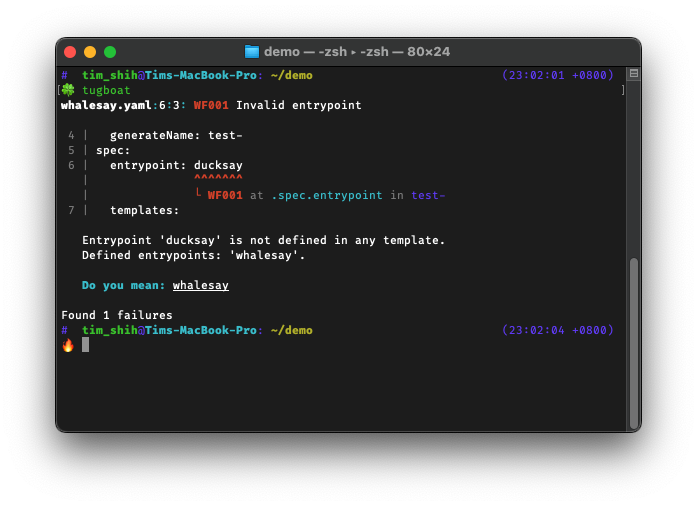
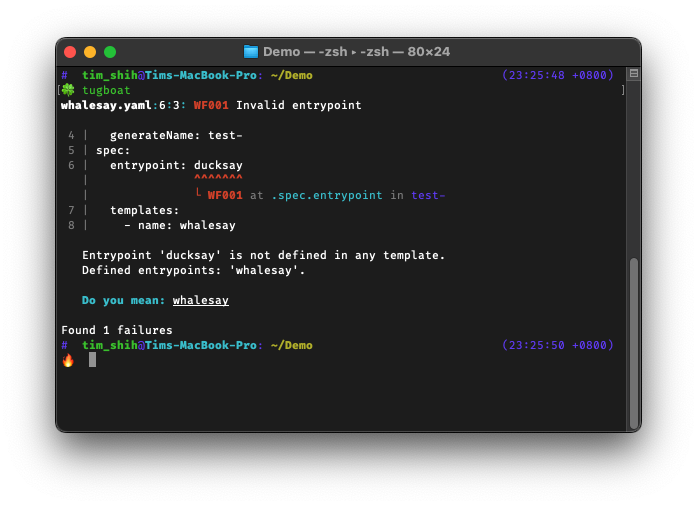
fix: console output (#8)

diff --git a/tugboat/console/outputs/console.py b/tugboat/console/outputs/console.py
@@ -11,7 +11,7 @@ from tugboat.console.utils import format_loc
 if typing.TYPE_CHECKING:
     from collections.abc import Callable, Iterator
     from pathlib import Path
-    from typing import IO
+    from typing import IO, Any
 
     from tugboat.analyze import AugmentedDiagnosis
 
@@ -73,9 +73,12 @@ def report_diagnosis(echo: Callable, file: Path, diagnosis: AugmentedDiagnosis):
             # default to the column number, but if the input is present, use that instead
             indent_before_caret = " " * max(diagnosis["column"] - 1, 0)
 
-            if diagnosis["input"] is not None and str(diagnosis["input"]) in line:
-                col_start = line.index(str(diagnosis["input"]))
-                col_end = col_start + len(str(diagnosis["input"]))
+            if range_ := _calc_highlight_range(
+                line=line,
+                offset=diagnosis["column"] - 1,
+                input_=diagnosis["input"],
+            ):
+                col_start, col_end = range_
                 indent_before_caret = " " * col_start
 
                 # print the underline
@@ -116,11 +119,31 @@ def report_diagnosis(echo: Callable, file: Path, diagnosis: AugmentedDiagnosis):
 def get_content_near(file: Path, target_line: int) -> Iterator[tuple[int, str]]:
     target_line -= 1  # 1-based to 0-based
     content = read_file(file).splitlines()
-    start = max(0, target_line - LINES_BEHIND)
-    end = min(len(content), target_line + LINES_AHEAD)
-    yield from enumerate(content[start:end], start + 1)
+    start = max(0, target_line - LINES_AHEAD)
+    end = min(len(content), target_line + LINES_BEHIND)
+    yield from enumerate(content[start : end + 1], start + 1)
 
 
 @functools.lru_cache(1)
 def read_file(path: Path) -> str:
     return path.read_text()
+
+
+def _calc_highlight_range(line: str, offset: int, input_: Any):
+    """
+    Calculate the range to highlight in the line.
+    """
+    if input_ is None:
+        return  # early escape if no value is provided
+
+    value = str(input_)
+    if not value.strip():
+        return  # prevent highlighting empty strings
+
+    try:
+        col_start = line.index(value, offset)
+    except ValueError:
+        return
+
+    col_end = col_start + len(value)
+    return col_start, col_end

diff --git a/tests/console/test_output_console.py b/tests/console/test_output_console.py
@@ -3,7 +3,7 @@ from pathlib import Path
 
 import pytest
 
-from tugboat.console.outputs.console import report
+from tugboat.console.outputs.console import _calc_highlight_range, report
 
 
 class TestReport:
@@ -46,6 +46,7 @@ class TestReport:
             " 1 | apiVersion: argoproj.io/v1alpha1",
             "   | └ T01 at . in hello-world-",
             " 2 | kind: Workflow",
+            " 3 | metadata:",
             "",
             "   Test error message",
             "",
@@ -84,6 +85,7 @@ class TestReport:
             "   |               ^^^^^",
             "   |               └ T02 at .spec.entrypoint in hello-",
             " 7 |   templates:",
+            " 8 |     - name: hello",
             "",
             "   Test failure message",
             "",
@@ -121,6 +123,7 @@ class TestReport:
             " 2 | kind: Workflow",
             "   | └ T03 at .kind in hello-world-",
             " 3 | metadata:",
+            " 4 |   generateName: hello-world-",
             "",
             "   Test skipped message",
             "",
@@ -159,3 +162,21 @@ class TestReport:
             output = stream.getvalue()
 
         assert isinstance(output, str)
+
+
+class TestCalcHighlightRange:
+
+    def test_success(self):
+        start, end = _calc_highlight_range("hello user 1234", 0, 1234)
+        assert start == 11
+        assert end == 15
+
+    def test_not_found(self):
+        assert _calc_highlight_range("hello world", 2, "hello") is None
+        assert _calc_highlight_range("hello world", 0, "not-found") is None
+
+    def test_empty(self):
+        assert _calc_highlight_range("hello world", 0, " ") is None
+
+    def test_none(self):
+        assert _calc_highlight_range("hello world; None", 0, None) is None

diff --git a/readme.pkg.rst b/readme.pkg.rst
@@ -16,6 +16,7 @@ Tugboat is a linter to streamline your `Argo Workflows <https://argoproj.github.
       |               ^^^^^^^
       |               └ WF001 at .spec.entrypoint in test-
     7 |   templates:
+    8 |     - name: whalesay
 
       Entrypoint 'ducksay' is not defined in any template.
       Defined entrypoints: 'whalesay'.
